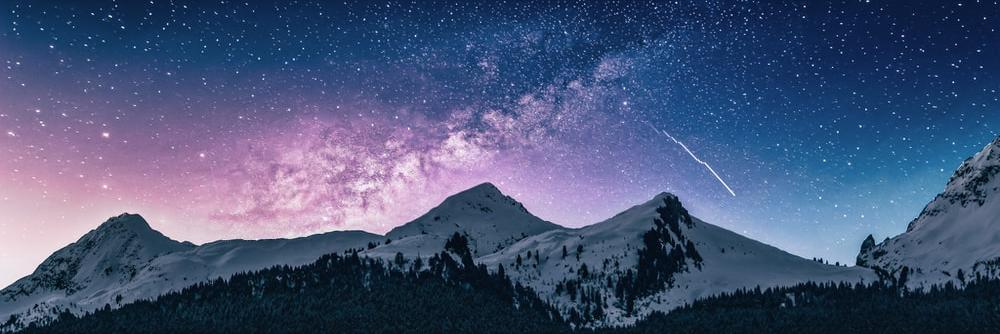
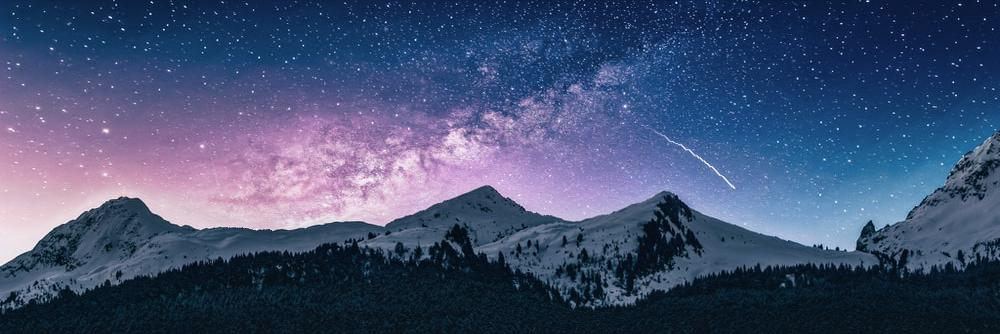
finish project

diff --git a/seam.py b/seam.py
@@ -1,12 +1,9 @@
 from imageio import imread, imwrite
-from numba import jit
 import numpy as np
 from scipy.ndimage.filters import convolve
 from argparse import ArgumentParser
-from warnings import filterwarnings
 import cv2
 
-filterwarnings('ignore')
 RED = np.array([255, 0, 0])
 
 
@@ -58,7 +55,6 @@ def backward_energy(img):
     return np.sum(np.abs(Ix) + np.abs(Iy), axis=img.ndim-1)
 
 
-@jit
 def forward_energy(img):
     """
     Creates an energy map using the forward energy method from the extension paper.
@@ -83,15 +79,14 @@ def forward_energy(img):
             # In case i is 0, we use i=0 so that i-1 is not -1
             ii = i if i == 0 else i - 1
             # Compute cU, cL, cR as described in the paper
-            cU[i, j] = np.abs(im[i, j+1] - im[i, jj])
-            cL[i, j] = cU[i, j] + np.abs(im[ii, j] - im[i, jj])
-            cR[i, j] = cU[i, j] + np.abs(im[ii, j] - im[i, j+1])
+            cU[i, j] = np.abs(im[i, jj+1] - im[i, jj])
+            cL[i, j] = cU[i, j] + np.abs(im[ii, jj] - im[i, jj])
+            cR[i, j] = cU[i, j] + np.abs(im[ii, jj] - im[i, jj+1])
             # The energy is the minimum between cU, cL, cR
             E[i, j] = min(cU[i, j], cL[i, j], cR[i, j])
     return E
 
 
-@jit
 def find_min_seam(E):
     """
     Finds the minimum seam in the given energy map.

diff --git a/README.md b/README.md
@@ -15,7 +15,6 @@ This is a program that takes in an image and resizes it using Seam Carving. It o
 - `numpy`
 - `scipy`
 - `imageio`
-- `numba`
 - `cv2`
 
 ## Results
